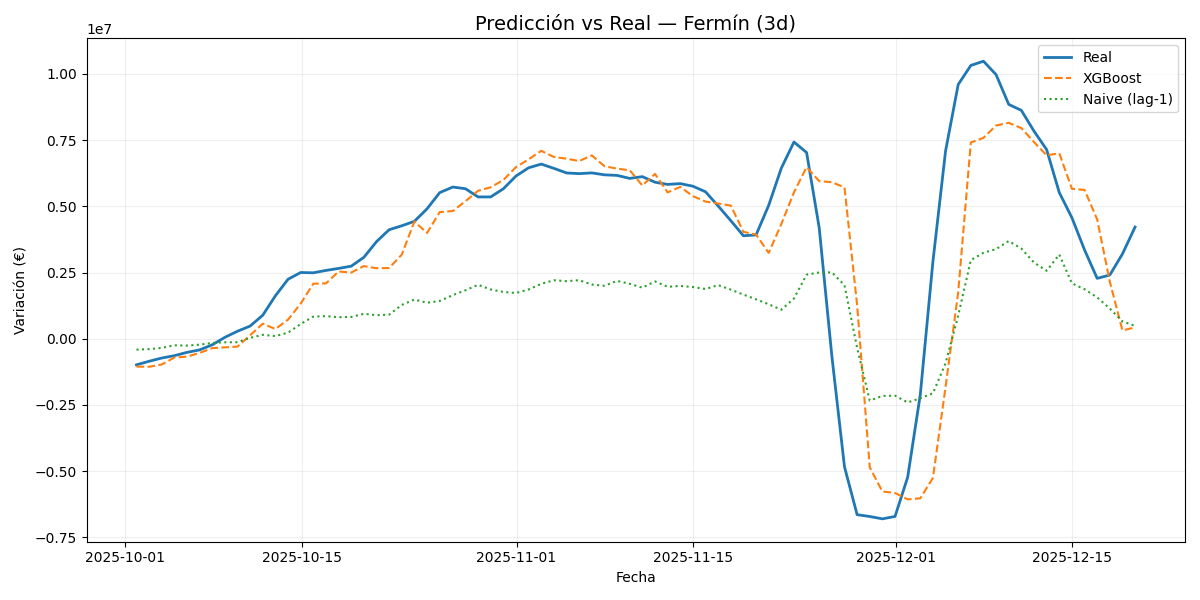
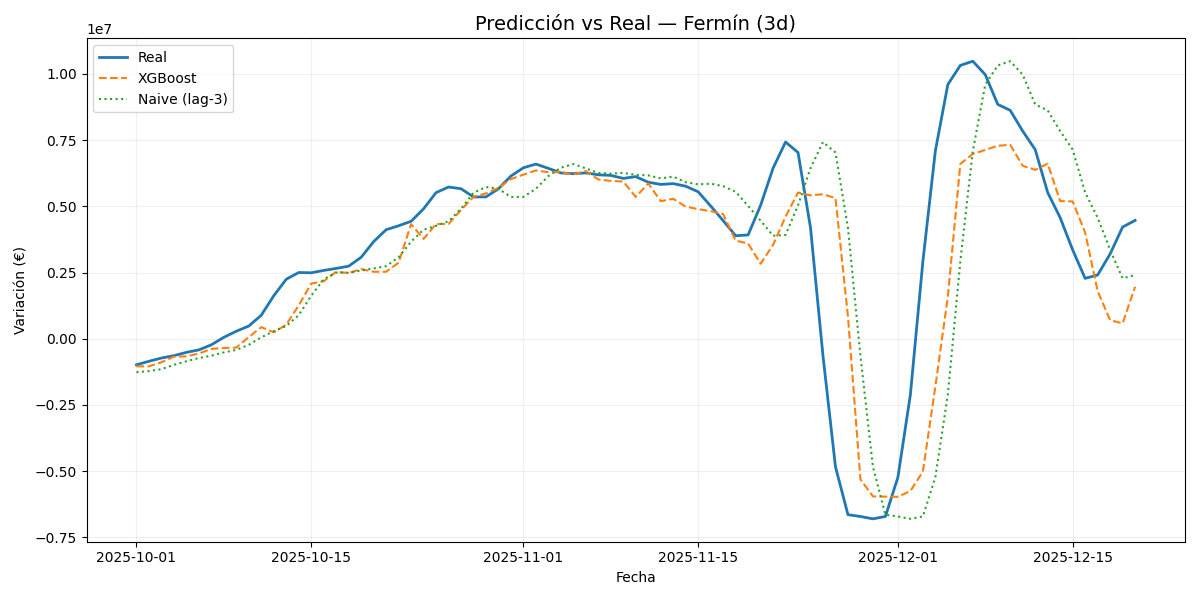
Corregir baseline Naive a lag-h, bug de val_mask en entrenar_modelo() y separar gráficas de resultados en imágenes individuales

diff --git a/modelo/modelo_tfg.py b/modelo/modelo_tfg.py
@@ -309,6 +309,8 @@ def entrenar_modelo(
     # PRIORIDAD DE SPLITS
     # =========================
 
+    val_mask = None
+
     # 1. Split manual (máxima prioridad)
     if train_mask is not None and test_mask is not None:
         train_mask = train_mask.reindex(df_modelo.index, fill_value=False)
@@ -345,12 +347,16 @@ def entrenar_modelo(
     X_test  = X[test_mask]
     y_train = y[train_mask]
     y_test  = y[test_mask]
-    X_val = X[val_mask] if val_mask is not None else X_test
-    y_val = y[val_mask] if val_mask is not None else y_test
+
     X_train = limpiar_X(X_train)
     X_test  = limpiar_X(X_test)
+
     if val_mask is not None:
-        X_val = limpiar_X(X_val)
+        X_val = limpiar_X(X[val_mask])
+        y_val = y[val_mask]
+    else:
+        X_val = X_test
+        y_val = y_test
 
     # ⚠ CHECK CLAVE (te evita bugs silenciosos)
     if len(X_test) == 0:
@@ -428,12 +434,11 @@ def entrenar_modelo(
 # 5. GRÁFICOS
 # ─────────────────────────────────────────────
 def guardar_graficos(y_test, y_pred, importancia, horizonte, mae, mae_pct, r2):
-    fig, axes = plt.subplots(1, 3, figsize=(18, 5))
-    fig.suptitle(f'Modelo XGBoost — Horizonte {horizonte} día(s)\nMAE: {mae:,.0f}€ ({mae_pct:.2f}%)  |  R²: {r2:.4f}',
-                 fontsize=13, fontweight='bold')
+    titulo_base = f'Modelo XGBoost — Horizonte {horizonte} día(s)\nMAE: {mae:,.0f}€ ({mae_pct:.2f}%)  |  R²: {r2:.4f}'
 
-    # 1. Real vs Predicho
-    ax = axes[0]
+    # --- Gráfico 1: Real vs Predicho ---
+    fig, ax = plt.subplots(figsize=(7, 6))
+    fig.suptitle(titulo_base, fontsize=12, fontweight='bold')
     lim = max(abs(y_test.max()), abs(y_test.min())) * 1.1
     ax.scatter(y_test, y_pred, alpha=0.3, s=5, color='steelblue')
     ax.plot([-lim, lim], [-lim, lim], 'r--', lw=1.5, label='Predicción perfecta')
@@ -443,31 +448,40 @@ def guardar_graficos(y_test, y_pred, importancia, horizonte, mae, mae_pct, r2):
     ax.legend()
     ax.set_xlim(-lim, lim)
     ax.set_ylim(-lim, lim)
+    plt.tight_layout()
+    ruta1 = os.path.join(OUTPUT_DIR, f'dispersión_{horizonte}d.png')
+    plt.savefig(ruta1, dpi=150, bbox_inches='tight')
+    plt.close()
+    print(f"    Gráfico guardado: {ruta1}")
 
-    # 2. Distribución de errores
-    ax = axes[1]
+    # --- Gráfico 2: Distribución del error ---
+    fig, ax = plt.subplots(figsize=(7, 6))
+    fig.suptitle(titulo_base, fontsize=12, fontweight='bold')
     errores = y_pred - y_test.values
     ax.hist(errores, bins=60, color='steelblue', edgecolor='white', alpha=0.8)
     ax.axvline(0, color='red', lw=1.5, linestyle='--')
     ax.set_xlabel('Error (€)')
     ax.set_ylabel('Frecuencia')
     ax.set_title('Distribución del Error')
+    plt.tight_layout()
+    ruta2 = os.path.join(OUTPUT_DIR, f'error_{horizonte}d.png')
+    plt.savefig(ruta2, dpi=150, bbox_inches='tight')
+    plt.close()
+    print(f"    Gráfico guardado: {ruta2}")
 
-    # 3. Top 15 features
-    ax = axes[2]
+    # --- Gráfico 3: Importancia de variables ---
+    fig, ax = plt.subplots(figsize=(9, 6))
     top15 = importancia.head(15).copy()
     top15['label'] = top15['feature'].map(ETIQUETAS_FEATURES).fillna(top15['feature'])
     ax.barh(top15['label'][::-1], top15['importancia'][::-1], color='steelblue')
     ax.set_xlabel('Importancia')
-    ax.set_title('Top 15 variables más influyentes')
+    ax.set_title(f'Top 15 variables más influyentes — Horizonte {horizonte} día(s)')
     ax.tick_params(axis='y', labelsize=9)
-
     plt.tight_layout()
-    ruta = os.path.join(OUTPUT_DIR, f'resultados_{horizonte}d.png')
-    plt.savefig(ruta, dpi=150, bbox_inches='tight')
+    ruta3 = os.path.join(OUTPUT_DIR, f'importancia_{horizonte}d.png')
+    plt.savefig(ruta3, dpi=150, bbox_inches='tight')
     plt.close()
-    print(f"    Gráfico guardado: {ruta}")
-
+    print(f"    Gráfico guardado: {ruta3}")
 
 # ─────────────────────────────────────────────
 # 6. PREDICCIÓN DE JUGADORES ESPECÍFICOS

diff --git a/modelo/visualizar_predicciones.py b/modelo/visualizar_predicciones.py
@@ -10,7 +10,7 @@ from modelo_tfg import cargar_datos, crear_features, entrenar_modelo
 PLAYER_NAME = "Fermín"     # ← CAMBIA AQUÍ EL JUGADOR
 FECHA_INICIO = "2025-10-01"  # ← CAMBIA AQUÍ
 FECHA_FIN    = "2025-12-20"  # ← CAMBIA AQUÍ
-HORIZONTE = 7                # 1, 3 o 7 días
+HORIZONTE = 3                # 1, 3 o 7 días
 
 # ─────────────────────────────────────────────
 # CARGA Y MODELO
@@ -32,13 +32,13 @@ y_pred = res['y_pred']
 df_test['pred_xgb'] = y_pred
 
 # ─────────────────────────────────────────────
-# BASELINE NAIVE (lag-1)
+# BASELINE NAIVE (lag-h)
 # ─────────────────────────────────────────────
 df_full = df.sort_values(['player_id', 'date'])
-df_full['var_ayer'] = df_full.groupby('player_id')['marketValue'].diff(1)
+df_full['var_naive'] = df_full.groupby('player_id')['marketValue'].diff(HORIZONTE)
 
 df_test = df_test.merge(
-    df_full[['player_id', 'date', 'var_ayer']],
+    df_full[['player_id', 'date', 'var_naive']],
     on=['player_id', 'date'],
     how='left'
 )
@@ -80,8 +80,8 @@ plt.plot(df_plot['date'], df_plot[target_col],
 plt.plot(df_plot['date'], df_plot['pred_xgb'],
          label="XGBoost", linestyle='--')
 
-plt.plot(df_plot['date'], df_plot['var_ayer'],
-         label="Naive (lag-1)", linestyle=':')
+plt.plot(df_plot['date'], df_plot['var_naive'],
+         label=f"Naive (lag-{HORIZONTE})", linestyle=':')
 
 plt.title(f"Predicción vs Real — {PLAYER_NAME} ({HORIZONTE}d)", fontsize=14)
 plt.xlabel("Fecha")
@@ -96,7 +96,7 @@ plt.show()
 # 📊 EXTRA: ERROR ACUMULADO
 # ─────────────────────────────────────────────
 df_plot['error_xgb'] = abs(df_plot[target_col] - df_plot['pred_xgb'])
-df_plot['error_naive'] = abs(df_plot[target_col] - df_plot['var_ayer'])
+df_plot['error_naive'] = abs(df_plot[target_col] - df_plot['var_naive'])
 
 plt.figure(figsize=(12, 4))
 
